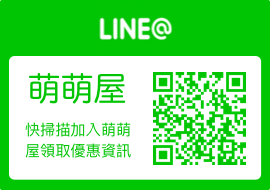
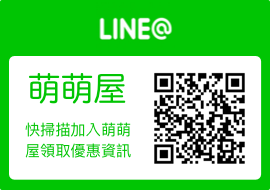
add float cart and change new line image

Changed region(s): [[0.563, 0.3684, 0.9185, 0.8684]]

diff --git a/app/assets/stylesheets/modules/float-box.scss b/app/assets/stylesheets/modules/float-box.scss
@@ -1,0 +1,18 @@
+.float-box{
+  position: fixed;
+  z-index: 6;
+  bottom: 2px;
+  right: 2px;
+  > .counter{
+    width: 15px;
+    height: 15px;
+    font-size: 10px;
+    text-align: center;
+    line-height: 15px;
+    background-color: red;
+    position: absolute;
+    top: 18px;
+    color: #fff;
+    left: 50px;
+  }
+}

diff --git a/app/helpers/application_helper.rb b/app/helpers/application_helper.rb
@@ -41,6 +41,16 @@ module ApplicationHelper
     end
   end
 
+  def render_float_cart
+    link_to checkout_path do
+      content_tag(:div, class: current_cart.cart_items.count > 0  ? 'float-box' : 'float-box hidden', id: 'cart-info') do
+        image_tag('float_cart.png') +
+        render_counter
+      end
+    end
+  end
+
+
   def fb_picture
     "http://graph.facebook.com/#{current_user.uid}/picture?width=100&height=100"
   end
